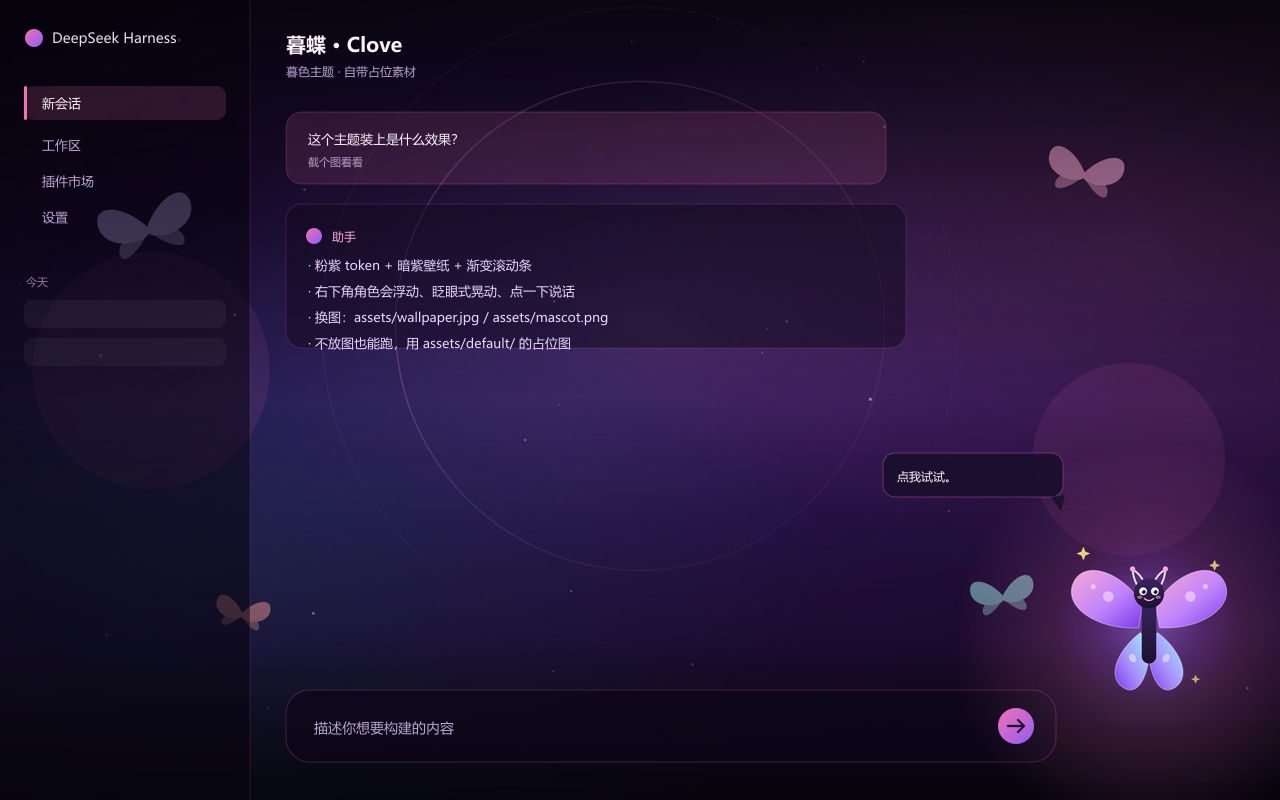
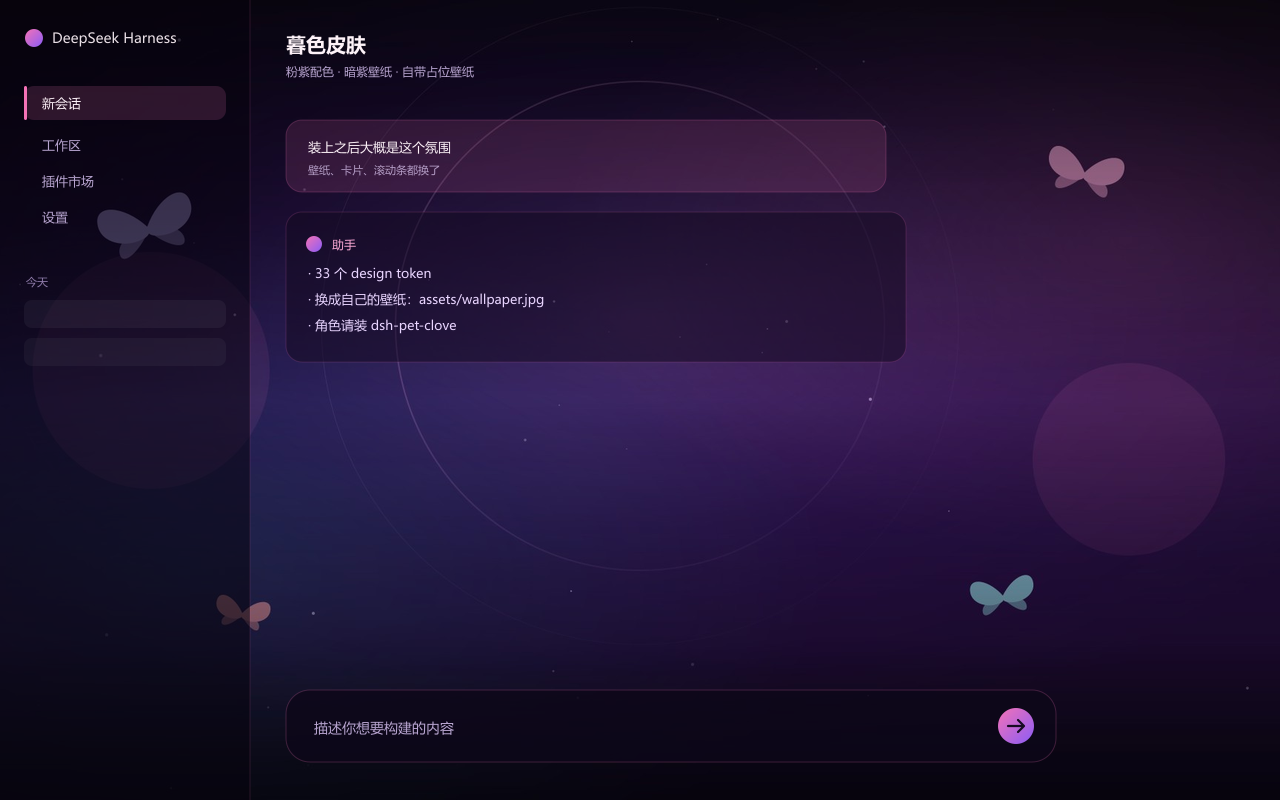
theme: drop the fixed corner mascot, the character now lives in the pet plugin

diff --git a/client.js b/client.js
@@ -1,8 +1,9 @@
 // Browser half of the Clove theme plugin.
 //
-// dsh's web loader imports this file through the package "./client" export and
-// registers whatever apply/inject we attach to the module exports, so this is a
-// hand-written bundle rather than an ES module.
+// dsh's web loader imports this through the package "./client" export and
+// registers the returned exports as a cordis plugin. This file only does the
+// skin: design tokens, wallpaper, card/scrollbar styling. The character lives
+// in the separate dsh-pet-clove plugin.
 
 window.__ModuleLoader__.load({
   id: 'dsh-theme-clove',
@@ -10,22 +11,10 @@ window.__ModuleLoader__.load({
     var module = { exports: {} };
     var exports = module.exports;
 
-    var MASCOT_SRC = '/dsh-clove-bg/mascot.png';
-
-    var LINES = [
-      '他们惨败的样子真滑稽。',
-      '死一下而已，又不是第一次。',
-      '烟雾里见的，才算朋友。',
-      '来点恶作剧？',
-      '蝴蝶飞走之前，记得看我一眼。',
-    ];
-
     function pair(color) {
       return { light: color, dark: color };
     }
 
-    // Surfaces go transparent so the wallpaper shows through; pink carries the
-    // accents, violet handles the quieter bits.
     var TOKENS = {
       '--dsw-alias-bg-base': pair('rgba(8, 4, 15, 0)'),
       '--dsw-alias-bg-layer-1': pair('rgba(14, 8, 26, 0.72)'),
@@ -95,222 +84,7 @@ body {
   background-clip: padding-box;
 }
 *::-webkit-scrollbar-corner { background: transparent; }
-
-.dsh-clove-mascot {
-  position: fixed;
-  right: 18px;
-  bottom: 92px;
-  width: var(--clove-size, 200px);
-  z-index: 40;
-  pointer-events: none;
-  user-select: none;
-  -webkit-user-select: none;
-  transform: translate3d(var(--clove-px, 0px), var(--clove-py, 0px), 0);
-  transition: transform 0.5s cubic-bezier(0.22, 1, 0.36, 1);
-}
-.dsh-clove-float {
-  position: relative;
-  animation: clove-float 6.4s ease-in-out infinite;
-  transform-origin: 50% 100%;
-}
-.dsh-clove-glow {
-  position: absolute;
-  left: 50%;
-  top: 56%;
-  width: 158%;
-  height: 132%;
-  transform: translate(-50%, -50%);
-  border-radius: 50%;
-  background: radial-gradient(closest-side, rgba(192, 132, 252, 0.42), rgba(244, 114, 182, 0.18) 46%, rgba(244, 114, 182, 0) 74%);
-  filter: blur(12px);
-  animation: clove-glow 4.6s ease-in-out infinite;
-  pointer-events: none;
-}
-.dsh-clove-btn {
-  position: relative;
-  display: block;
-  width: 100%;
-  padding: 0;
-  margin: 0;
-  border: 0;
-  background: none;
-  cursor: pointer;
-  transform-origin: 50% 100%;
-  animation: clove-breath 4.6s ease-in-out infinite;
-  -webkit-tap-highlight-color: transparent;
-}
-.dsh-clove-btn:focus-visible { outline: 2px solid rgba(244, 114, 182, 0.6); outline-offset: 6px; border-radius: 18px; }
-.dsh-clove-img {
-  display: block;
-  width: 100%;
-  height: auto;
-  -webkit-user-drag: none;
-  filter: drop-shadow(0 12px 26px rgba(0, 0, 0, 0.45)) drop-shadow(0 0 18px rgba(244, 114, 182, 0.28));
-  transition: transform 0.3s cubic-bezier(0.22, 1, 0.36, 1);
-}
-.dsh-clove-btn:hover .dsh-clove-img { transform: scale(1.04) rotate(-1.2deg); }
-.dsh-clove-mascot.is-hop .dsh-clove-float { animation: clove-hop 0.8s cubic-bezier(0.32, 0.72, 0.35, 1); }
-.dsh-clove-mascot.is-wiggle .dsh-clove-float { animation: clove-wiggle 0.95s ease-in-out; }
-
-.dsh-clove-bubble {
-  position: absolute;
-  right: 78%;
-  bottom: 56%;
-  max-width: 190px;
-  width: max-content;
-  padding: 8px 11px;
-  border-radius: 12px 12px 4px 12px;
-  background: rgba(28, 16, 48, 0.94);
-  border: 1px solid rgba(244, 114, 182, 0.32);
-  color: #FDF2F8;
-  font-size: 12px;
-  line-height: 1.55;
-  letter-spacing: 0.02em;
-  box-shadow: 0 8px 24px rgba(0, 0, 0, 0.45);
-  opacity: 0;
-  transform: translateY(6px) scale(0.96);
-  transform-origin: 100% 100%;
-  transition: opacity 0.18s ease, transform 0.18s ease;
-  pointer-events: none;
-}
-.dsh-clove-bubble.is-visible { opacity: 1; transform: translateY(0) scale(1); }
-
-@keyframes clove-float {
-  0%, 100% { transform: translateY(0) rotate(-0.8deg); }
-  50% { transform: translateY(-8px) rotate(0.8deg); }
-}
-@keyframes clove-breath { 0%, 100% { transform: scale(1); } 50% { transform: scale(1.015); } }
-@keyframes clove-glow {
-  0%, 100% { opacity: 0.55; transform: translate(-50%, -50%) scale(0.96); }
-  50% { opacity: 0.95; transform: translate(-50%, -50%) scale(1.04); }
-}
-@keyframes clove-hop {
-  0% { transform: translateY(0) rotate(0deg) scale(1); }
-  28% { transform: translateY(-20px) rotate(-4deg) scale(1.02, 0.98); }
-  62% { transform: translateY(0) rotate(0deg) scale(0.98, 1.03); }
-  80% { transform: translateY(-6px) rotate(2deg) scale(1.01, 0.99); }
-  100% { transform: translateY(0) rotate(0deg) scale(1); }
-}
-@keyframes clove-wiggle {
-  0%, 100% { transform: rotate(0deg); }
-  20% { transform: rotate(-2.6deg); }
-  45% { transform: rotate(2.2deg); }
-  70% { transform: rotate(-1.4deg); }
-}
-
-@media (max-width: 900px) {
-  .dsh-clove-mascot { display: none; }
-}
-@media (prefers-reduced-motion: reduce) {
-  .dsh-clove-float,
-  .dsh-clove-btn,
-  .dsh-clove-glow,
-  .dsh-clove-mascot.is-hop .dsh-clove-float,
-  .dsh-clove-mascot.is-wiggle .dsh-clove-float { animation: none !important; }
-  .dsh-clove-mascot { transition: none; }
-}
 `;
-
-    function replayClass(el, className, ms, timers) {
-      el.classList.remove(className);
-      void el.offsetWidth;
-      el.classList.add(className);
-      timers.push(window.setTimeout(() => el.classList.remove(className), ms));
-    }
-
-    function mountMascot() {
-      if (document.querySelector('.dsh-clove-mascot')) return () => {};
-
-      var host = document.createElement('div');
-      host.className = 'dsh-clove-mascot';
-      host.setAttribute('data-plugin', 'dsh-theme-clove');
-
-      var float = document.createElement('div');
-      float.className = 'dsh-clove-float';
-
-      var glow = document.createElement('div');
-      glow.className = 'dsh-clove-glow';
-
-      var bubble = document.createElement('div');
-      bubble.className = 'dsh-clove-bubble';
-      bubble.setAttribute('role', 'status');
-      bubble.setAttribute('aria-live', 'polite');
-
-      var button = document.createElement('button');
-      button.className = 'dsh-clove-btn';
-      button.setAttribute('type', 'button');
-      button.setAttribute('title', '暮蝶 · Clove');
-      button.setAttribute('aria-label', '暮蝶，点我说话');
-
-      var img = document.createElement('img');
-      img.className = 'dsh-clove-img';
-      img.setAttribute('src', MASCOT_SRC);
-      img.setAttribute('alt', '暮蝶 · Clove');
-      img.setAttribute('draggable', 'false');
-
-      button.appendChild(img);
-      float.appendChild(glow);
-      float.appendChild(bubble);
-      float.appendChild(button);
-      host.appendChild(float);
-      (document.body || document.documentElement).appendChild(host);
-
-      var timers = [];
-      var line = 0;
-      var reduced = window.matchMedia && window.matchMedia('(prefers-reduced-motion: reduce)').matches;
-
-      function say() {
-        bubble.textContent = LINES[line++ % LINES.length];
-        bubble.classList.add('is-visible');
-        timers.push(window.setTimeout(() => bubble.classList.remove('is-visible'), 4200));
-      }
-
-      button.addEventListener('click', () => {
-        replayClass(host, 'is-hop', 820, timers);
-        say();
-      });
-
-      // A missing mascot image shouldn't leave a broken button behind.
-      img.addEventListener('error', () => host.remove(), { once: true });
-
-      var wiggleTimer = null;
-      function scheduleWiggle() {
-        wiggleTimer = window.setTimeout(() => {
-          if (!document.hidden) replayClass(host, 'is-wiggle', 980, timers);
-          scheduleWiggle();
-        }, 6000 + Math.round(Math.random() * 5000));
-      }
-
-      var moveHandler = null;
-      var frame = null;
-      if (!reduced && window.innerWidth > 900) {
-        moveHandler = (event) => {
-          if (frame !== null) return;
-          frame = window.requestAnimationFrame(() => {
-            frame = null;
-            var dx = ((event.clientX / window.innerWidth - 0.5) * -10).toFixed(1);
-            var dy = ((event.clientY / window.innerHeight - 0.5) * -6).toFixed(1);
-            host.style.setProperty('--clove-px', dx + 'px');
-            host.style.setProperty('--clove-py', dy + 'px');
-          });
-        };
-        window.addEventListener('mousemove', moveHandler, { passive: true });
-      }
-
-      if (!reduced) {
-        scheduleWiggle();
-        timers.push(window.setTimeout(say, 2400));
-      }
-
-      return () => {
-        if (wiggleTimer !== null) window.clearTimeout(wiggleTimer);
-        if (moveHandler) window.removeEventListener('mousemove', moveHandler);
-        if (frame !== null) window.cancelAnimationFrame(frame);
-        timers.forEach((id) => window.clearTimeout(id));
-        timers.length = 0;
-        host.remove();
-      };
-    }
 
     function apply(ctx) {
       var disposeTokens = ctx.theme.overrideTokens('clove', TOKENS);
@@ -325,7 +99,6 @@ body {
 
       document.documentElement.setAttribute('data-clove-theme', 'on');
       ctx.effect(() => () => document.documentElement.removeAttribute('data-clove-theme'));
-      ctx.effect(mountMascot);
     }
 
     exports.inject = ['theme'];

diff --git a/README.md b/README.md
@@ -1,18 +1,19 @@
 # dsh-theme-clove
 
-暮色调的 DeepSeek Harness Web GUI 主题：粉紫配色、暗紫壁纸，还有右下角一只会动的小角色。
+暮色调的 DeepSeek Harness Web GUI 皮肤：粉紫配色、暗紫壁纸、卡片和滚动条样式。
 
-仓库里**不带**任何同人图。默认用 `assets/default/` 下一张原创的蝴蝶占位图，装好就能跑；想换成你喜欢的图，往下看「换成自己的图」。
+仓库不自带壁纸。默认用 `assets/default/wallpaper.jpg`（原创的暗紫抽象图），装上就能跑；想换成自己的图，见下面「换壁纸」。
+
+> 想要会跟着你跑、能拖能撒娇的角色？那是另一个插件 [dsh-pet-clove](https://github.com/forget6610/dsh-pet-clove)。这个仓库只做皮肤。
 
 ![preview](preview/preview.png)
 
-## 它会改什么
+## 内容
 
 - 33 个 design token：深紫半透明表面、蝶粉强调色、粉紫渐变滚动条
-- 整页壁纸（`body` 固定背景），聊天输入卡圆角和内描边
-- 右下角角色：浮动、呼吸、光晕、随机晃动、鼠标视差，点一下会跳起来说句话
-- 全部挂在插件 fiber 上，禁用或卸载后页面干净还原
-- 窄屏隐藏角色，`prefers-reduced-motion` 下关掉动画
+- 整页壁纸（`body` 固定背景），暗角渐变保证文字可读
+- 聊天输入卡圆角 + 内描边，气泡圆角
+- 全部挂在插件 fiber 上，卸载后页面干净还原
 
 ## 安装
 
@@ -23,7 +24,7 @@ dsh plugin --profile web add github:forget6610/dsh-theme-clove
 dsh web
 ```
 
-桌面客户端（DSH Desktop / EAC）：`dsh plugin` 不允许操作客户端自带的 `desktop` profile，请在 **设置 → 插件 → 市场** 里从 GitHub 源搜索 `dsh-theme-clove` 安装，装完重启客户端并 `Ctrl+F5`。
+桌面客户端（DSH Desktop / EAC）：`dsh plugin` 不能操作客户端自带的 `desktop` profile，请到 **设置 → 插件 → 市场** 里从 GitHub 源搜索 `dsh-theme-clove` 安装，装完重启并 `Ctrl+F5`。
 
 本地开发：
 
@@ -34,32 +35,24 @@ dsh plugin --profile web add link:D:\path\to\dsh-theme-clove
 
 卸载：命令行 `dsh plugin --profile web remove dsh-theme-clove`，客户端在插件市场里卸载。
 
-## 换成自己的图
+## 换壁纸
 
-插件优先读 `assets/` 下的两张图，读不到才回退到 `assets/default/`：
+插件优先读 `assets/wallpaper.jpg`，读不到才回退到 `assets/default/wallpaper.jpg`。
 
-| 文件 | 规格 |
-| --- | --- |
-| `assets/wallpaper.jpg` | 1920×1080，JPEG |
-| `assets/mascot.png` | 透明底 PNG，高 300–500px，底部渐隐效果更好 |
+放一张 16:9 的 JPEG（建议 1920×1080）到 `assets/wallpaper.jpg`，重启并强刷即可。这个文件在 `.gitignore` 里，个人图不会进仓库。路径写死在 `client.js` 的 CSS 和 `host.js` 的 `ASSETS` 里，想换目录改这两处。
 
-放好后重启并强刷即可。壁纸/角色路径写在 `host.js` 的 `ASSETS` 和 `client.js` 的 `MASCOT_SRC` 里，想换目录改这两处。
+## 改配色
 
-## 改点别的
-
-- 配色：`client.js` 里的 `TOKENS`，每项是 `{ light, dark }`
-- 台词：`client.js` 里的 `LINES`
-- 角色大小/位置：CSS 变量 `--clove-size`，以及 `.dsh-clove-mascot` 的 `right` / `bottom`
-- 动画节奏：`clove-float`、`clove-breath`、`clove-hop`、`clove-wiggle`、`clove-glow` 几个 keyframes
+`client.js` 里的 `TOKENS`，每项是 `{ light, dark }`。只改「表面 / 文字 / 强调 / 阴影」类 token 最稳，布局类 token 先在开发者工具里确认影响面。
 
 ## 结构
 
 ```
-host.js            # 静态资源路由（壁纸、角色图），带默认图回退
-client.js          # 设计 token、CSS、角落角色的挂载与动画
-assets/default/    # 占位素材（原创）
+host.js            # 壁纸静态路由（带默认图回退）
+client.js          # design token + 壁纸/卡片/滚动条 CSS
+assets/default/    # 占位壁纸（原创）
 cordis.patch.yml   # 插件行
-test/              # 两个零依赖冒烟测试
+test/              # 两个零依赖测试
 ```
 
 ## 测试
@@ -69,20 +62,19 @@ npm test
 node test/host-smoke.mjs
 ```
 
-浏览器半区跑在最小 DOM stub 上，宿主半区真的读文件并校验字节头，不需要启动 dsh。
+浏览器半区跑在最小 DOM stub 上；宿主半区真的读文件并校验字节头。不需要启动 dsh。
 
 ## 已知限制
 
-- 壁纸和毛玻璃按 Chromium 打磨，Firefox 下效果打折
+- 壁纸是 1920×1080 位图，4K 屏会略微放大
+- 毛玻璃/滚动条按 Chromium 内核打磨，Firefox 效果打折
 - 一个 profile 只建议开一个主题插件，token 是叠加的
-- 静态路由缓存 1 小时，换图后强刷
+- 静态资源缓存 1 小时，换图后强刷
 
 ## 许可
 
-代码 MIT。`assets/default/` 里的占位图是原创的，随代码一起按 MIT 使用。
-
-「暮蝶 / Clove」和 VALORANT 是 Riot Games 的商标，本仓库与 Riot 无关，也不分发官方素材。想用同人图的话请自行取得原作者授权，并只在本地使用。
+代码 MIT。`assets/default/` 的占位图是原创的，随代码一起按 MIT 使用。仓库与 Riot Games 无关，也不分发官方或同人素材。
 
 ---
 
-A dusk-themed skin for the DeepSeek Harness web GUI: 33 design tokens, a wallpaper, and a small floating mascot with idle animations and a click reaction. The repo ships original placeholder art; drop your own `assets/wallpaper.jpg` and `assets/mascot.png` to replace it. MIT licensed. Not affiliated with Riot Games.
+A dusk-coloured skin for the DeepSeek Harness web GUI: 33 design tokens, a wallpaper slot, and card/scrollbar styling. Ships an original placeholder wallpaper; drop your own JPEG at `assets/wallpaper.jpg` to replace it. MIT. Not affiliated with Riot Games.
